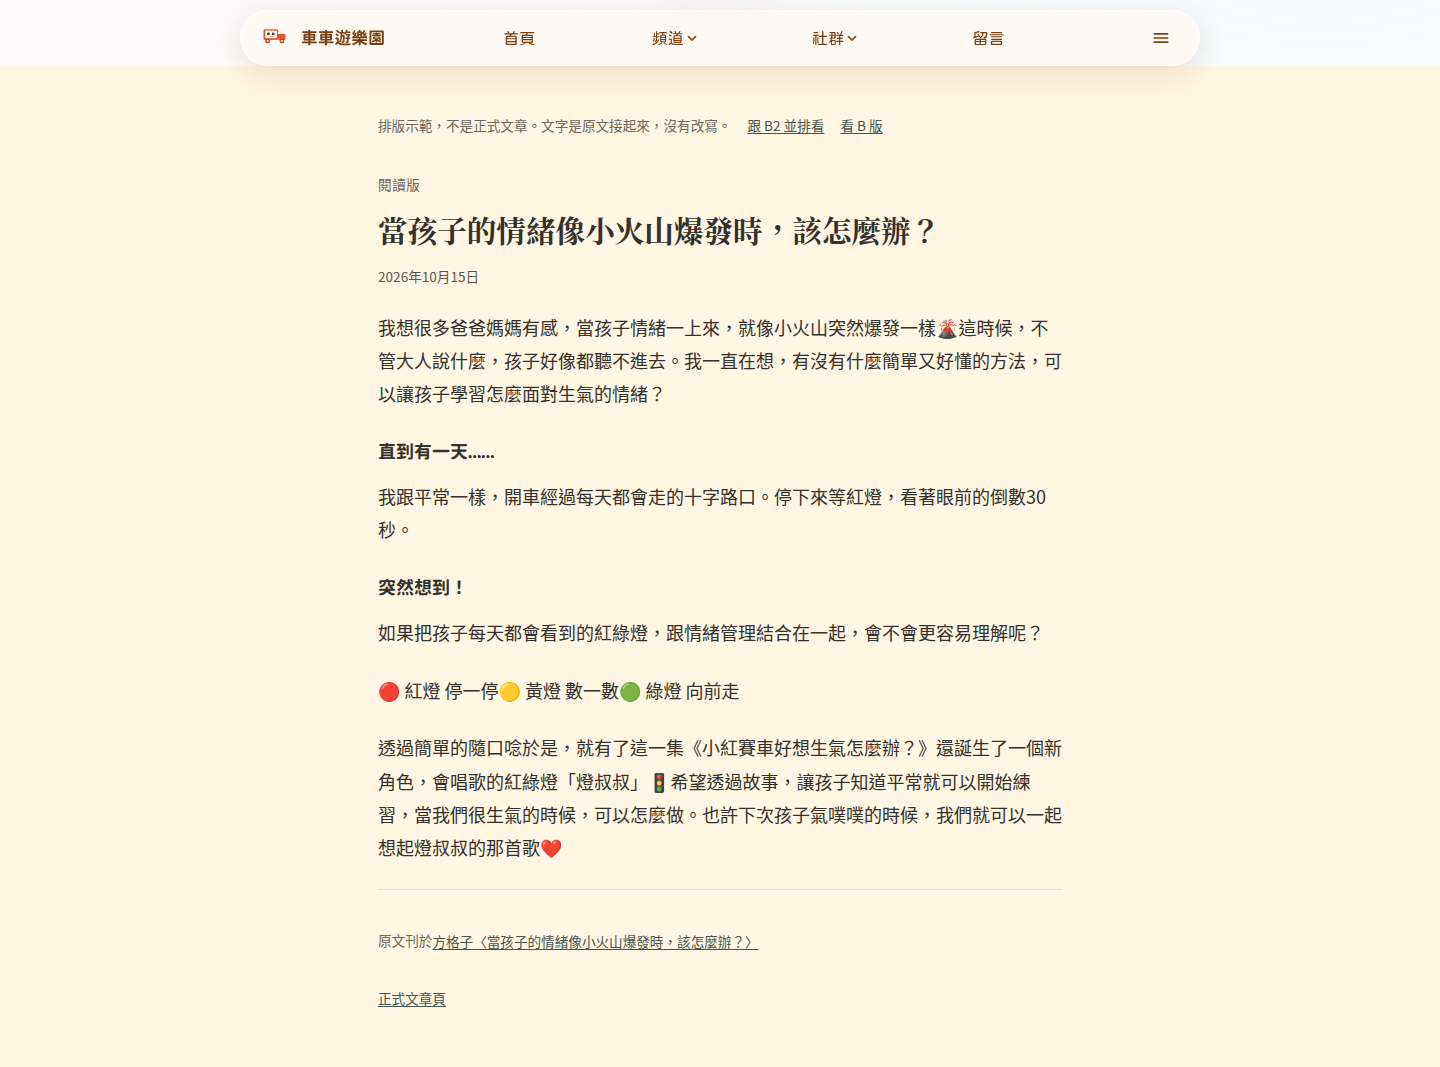
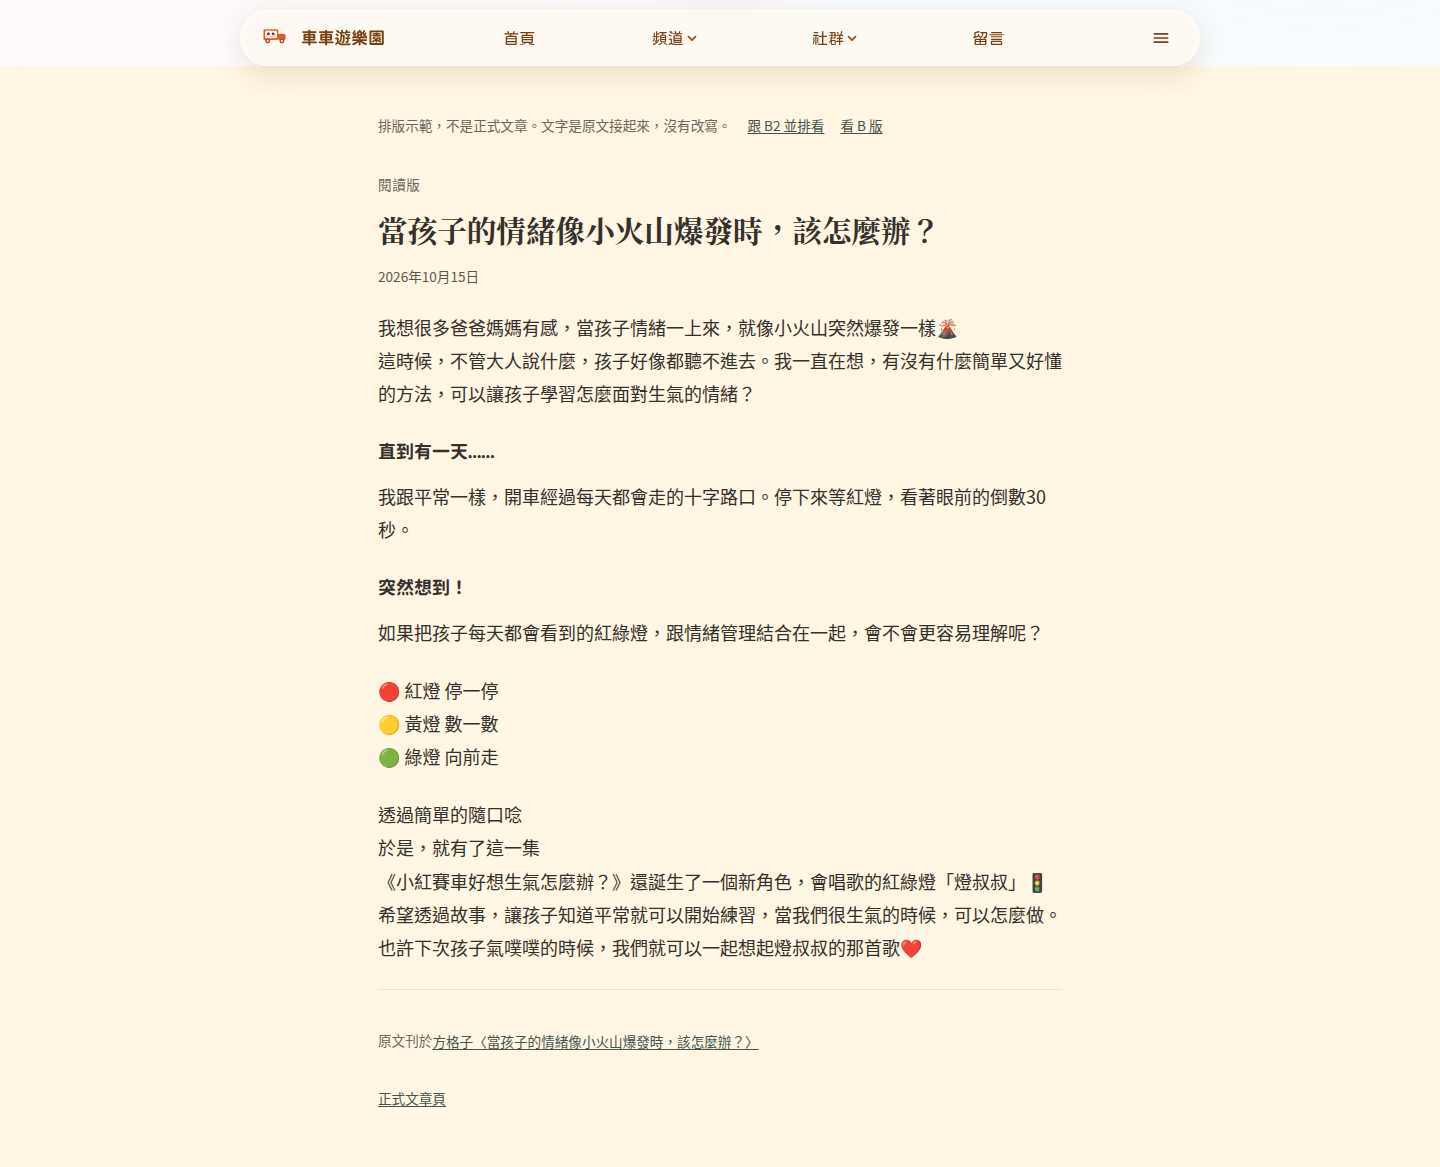
fix: B3 沒標點的原文換行不再接起來
上一句結尾有標點才接成同一段。隨口唸、這一集、紅綠燈三句都保留換行，不加字。

視覺基準是 darwin，這台 Linux 錄不了，push 用 SKIP_VISUAL_GATE=1。

diff --git a/lib/demo-article-layout.test.ts b/lib/demo-article-layout.test.ts
@@ -8,6 +8,7 @@ import {
   DEMO_SLOTS,
   DEMO_TITLE_QUOTE,
   demoB3ArticleText,
+  demoB3EndsWithPunctuation,
   demoBodyParagraphs,
 } from "./demo-article-layout";
 
@@ -43,6 +44,29 @@ describe("排版示範沿用原文", () => {
     for (const block of DEMO_B3_BLOCKS) {
       if (block.kind === "paragraph") expect(block.texts.length).toBeGreaterThan(0);
     }
+    const kept = ["隨口唸", "這一集", "停一停", "數一數", "一樣🌋"];
+    const joined = ["有感，", "聽不進去。", "方法，", "十字路口。", "練習，", "怎麼做。", "時候，"];
+    const seen = new Set<string>();
+    for (const block of DEMO_B3_BLOCKS) {
+      if (block.kind !== "paragraph") continue;
+      for (let index = 0; index < block.texts.length - 1; index += 1) {
+        const line = block.texts[index] ?? "";
+        const broken = !demoB3EndsWithPunctuation(line);
+        for (const sample of kept) {
+          if (line.endsWith(sample)) {
+            seen.add(sample);
+            expect(broken).toBe(true);
+          }
+        }
+        for (const sample of joined) {
+          if (line.endsWith(sample)) {
+            seen.add(sample);
+            expect(broken).toBe(false);
+          }
+        }
+      }
+    }
+    expect([...seen].sort()).toEqual([...kept, ...joined].sort());
   });
 
   it("示範路由不進 sitemap", () => {

diff --git a/lib/demo-article-layout.ts b/lib/demo-article-layout.ts
@@ -107,8 +107,19 @@ export type DemoB3Block =
   | { readonly kind: "paragraph"; readonly texts: readonly string[] }
   | { readonly kind: "subhead"; readonly text: string };
 
+/** 前一行最後一個字是這些標點時，下一句才接上；否則保留換行。 */
+const DEMO_B3_ENDING_PUNCTUATION = new Set(
+  Array.from("。！？，、；：…．.!,?;:」』》〉）〕】"),
+);
+
+export function demoB3EndsWithPunctuation(text: string): boolean {
+  const last = [...text].at(-1);
+  return last != null && DEMO_B3_ENDING_PUNCTUATION.has(last);
+}
+
 /**
- * B3 只把原文句子接起來。空行沿用方格子的 spacer，中間接的字一個不加、不刪。
+ * B3 只把原文句子接起來。空行沿用方格子的 spacer。
+ * 上一句結尾有標點才接成同一段；沒有標點就保留換行。中間不添字。
  */
 export const DEMO_B3_BLOCKS: readonly DemoB3Block[] = (() => {
   const blocks: DemoB3Block[] = [];

diff --git a/components/demo/DemoArticleB3.tsx b/components/demo/DemoArticleB3.tsx
@@ -1,5 +1,9 @@
 import Link from "next/link";
-import { DEMO_B3_BLOCKS, DEMO_SOURCE_ARTICLE } from "@/lib/demo-article-layout";
+import {
+  DEMO_B3_BLOCKS,
+  DEMO_SOURCE_ARTICLE,
+  demoB3EndsWithPunctuation,
+} from "@/lib/demo-article-layout";
 import { formatParentArticleDate } from "@/lib/parent-articles";
 import styles from "./DemoArticleB3.module.css";
 
@@ -39,7 +43,12 @@ export function DemoArticleB3() {
         return (
           <p key={index} className={styles.stanza}>
             {block.texts.map((text, textIndex) => (
-              <span key={`${index}-${textIndex}`}>{text}</span>
+              <span key={`${index}-${textIndex}`}>
+                {textIndex > 0 && !demoB3EndsWithPunctuation(block.texts[textIndex - 1] ?? "") ? (
+                  <br />
+                ) : null}
+                {text}
+              </span>
             ))}
           </p>
         );

diff --git a/CHANGELOG.md b/CHANGELOG.md
@@ -6,7 +6,7 @@
 
 ### Added
 
-- **排版示範**：`/demo/style-a`、`/demo/style-b`、`/demo/style-b2` 與段落接起來的 `/demo/style-b3` 用同一篇現有文章比排版。不進選單、不進 sitemap，也不給搜尋引擎收錄。正式文章頁沒有改。
+- **排版示範**：`/demo/style-a`、`/demo/style-b`、`/demo/style-b2` 與 `/demo/style-b3` 用同一篇現有文章比排版。B3 只在上一句有標點時接成一段，沒標點的換行保留。不進選單、不進 sitemap，也不給搜尋引擎收錄。正式文章頁沒有改。
 - **電子報**：漢堡選單「給爸媽」加了「電子報」，列表在 `/newsletter`，單篇在 `/newsletter/[slug]`，版面沿用育兒文章。第一期是 2026-10-28「你已經試了 20 秒囉」，內文用審過的精簡稿。
 - **電子報**：補上 2026-10-09、10-13、10-16、10-20、10-23。列表封面仍是 10/28，其餘放在同一個月、由新到舊。內文用審過的精簡稿，不改字。
 
